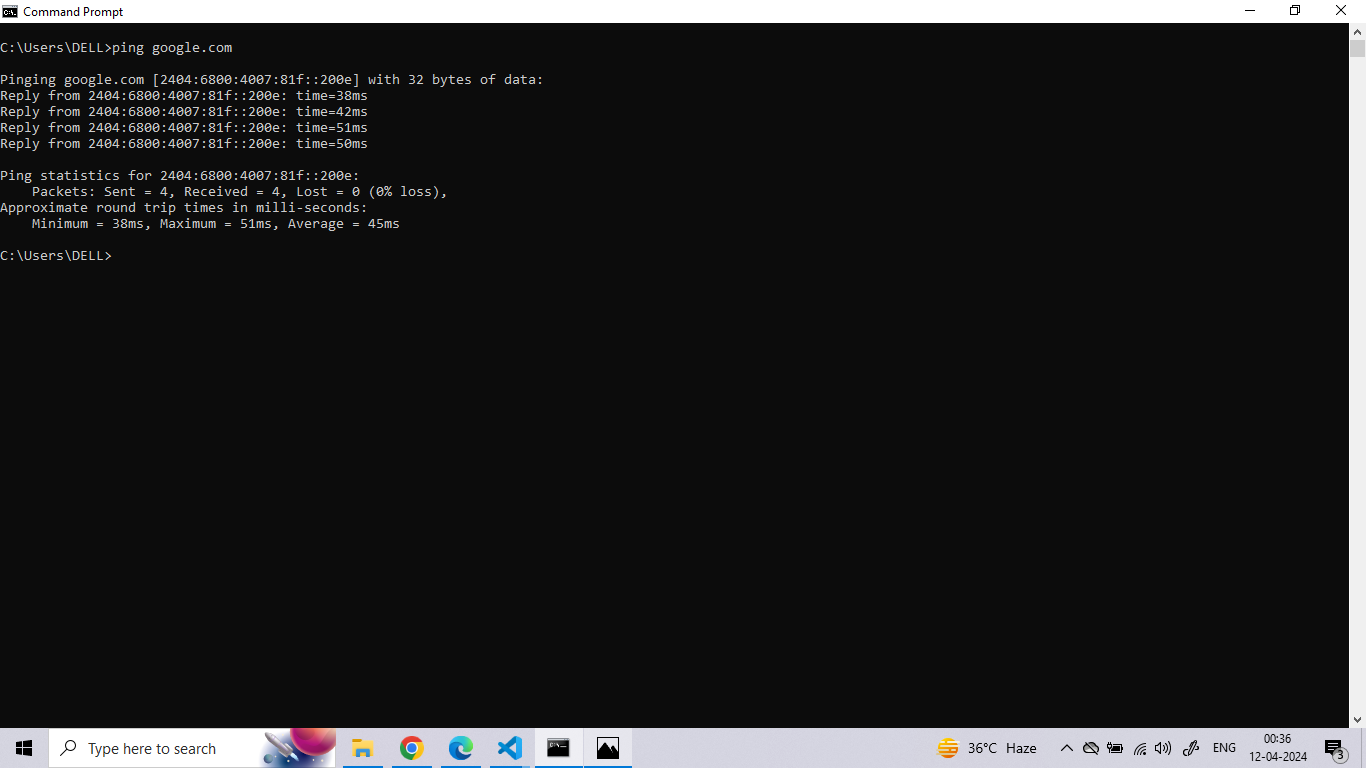
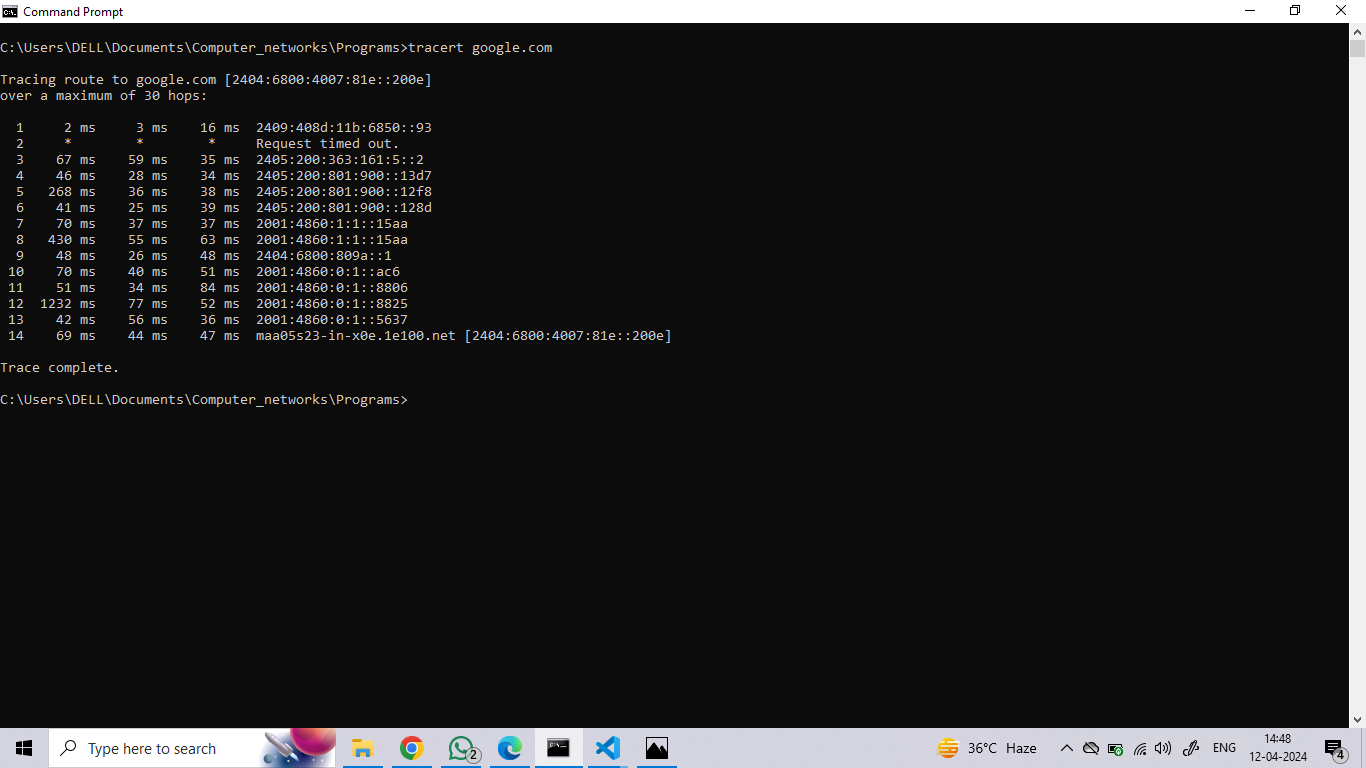
Done

diff --git a/README.md b/README.md
@@ -29,22 +29,47 @@ This commands includes
 • Other IP Commands e.g. show ip route etc.
 <BR>
 
-## Output
+## Program:
+## ping command:
+### Client:
+```
+import socket
+from pythonping import ping
+s=socket.socket()
+s.bind(('localhost',8100))
+s.listen(5)
+c,addr=s.accept()
+while True:
+    hostname=c.recv(1024).decode()
+    try:
+        c.send(str(ping(hostname, verbose=False)).encode())
+    except KeyError:
+        c.send("Not Found".encode())
+```
+### Server:
+```
+import socket
+s=socket.socket()
+s.connect(('localhost',8100))
+while True:
+    ip=input("Enter the website you want to ping ")
+    s.send(ip.encode())
+    print(s.recv(1024).decode())
+```
+## tracert command:
+```
+from scapy.all import*
+target = ["www.google.com"]
+result, unans = traceroute(target,maxttl=32)
+print(result,unans)
+```
+## Output:
 ### ping command:
-![alt text](<Screenshot (305).png>)
+#### Client:
+![alt text](<Screenshot (307).png>)
+#### Server:
+![alt text](<Screenshot (308).png>)
 ### tracert command:
-![alt text](<Screenshot (295).png>)
-### ipconfig command:
-![alt text](<Screenshot (296).png>)
-### netstat command:
-![alt text](<Screenshot (298).png>)
-### nslookup command:
-![alt text](<Screenshot (299).png>)
-### arp command:
-![alt text](<Screenshot (300).png>)
-### route command:
-![alt text](<Screenshot (301).png>)
-### curl command:
-![alt text](<Screenshot (302).png>)
+![alt text](<Screenshot (310).png>)
 ## Result
 Thus Execution of Network commands Performed 
